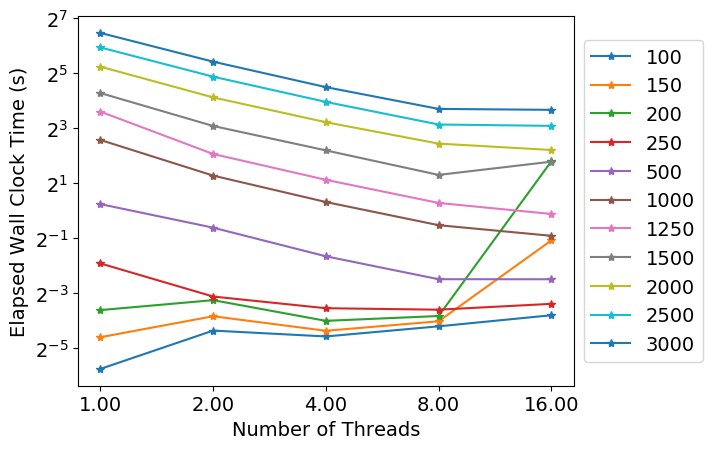
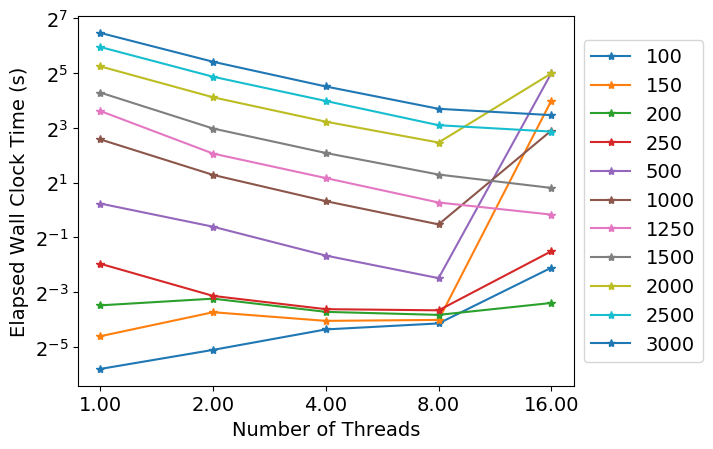
fix bug in vizfun script and rerun figs

diff --git a/data/vizfun.py b/data/vizfun.py
@@ -44,7 +44,7 @@ for files in ['statfun_poisson_naive.dat','statfun_poisson_openmp1.dat','statfun
 	plt.savefig('WallTime_%s.png' % files, bbox_inches='tight')
 	plt.close()
 
-	df1 = pd.read_csv('statfun.dat',delim_whitespace=True,header=None,names=["Threads","MaxIter","Memory","MFlops","WallTime","Size"])
+	df1 = pd.read_csv(files,delim_whitespace=True,header=None,names=["Threads","MaxIter","Memory","MFlops","WallTime","Size"])
 	df1 = df1.loc[df1['Size'] >= 100]
 	plt.figure()
 	df1.set_index("Threads", inplace=True)
@@ -63,7 +63,7 @@ for files in ['statfun_poisson_naive.dat','statfun_poisson_openmp1.dat','statfun
 	plt.savefig('ThreadsWallTime_%s.png' % files, bbox_inches='tight')
 	plt.close()
 
-	df1 = pd.read_csv('statfun.dat',delim_whitespace=True,header=None,names=["Threads","MaxIter","Memory","MFlops","WallTime","Size"])
+	df1 = pd.read_csv(files,delim_whitespace=True,header=None,names=["Threads","MaxIter","Memory","MFlops","WallTime","Size"])
 	df1 = df1.loc[df1['Size'] >= 100]
 	plt.figure()
 	df1 = df1.sort_values(['Size','Threads'],ascending=True)
